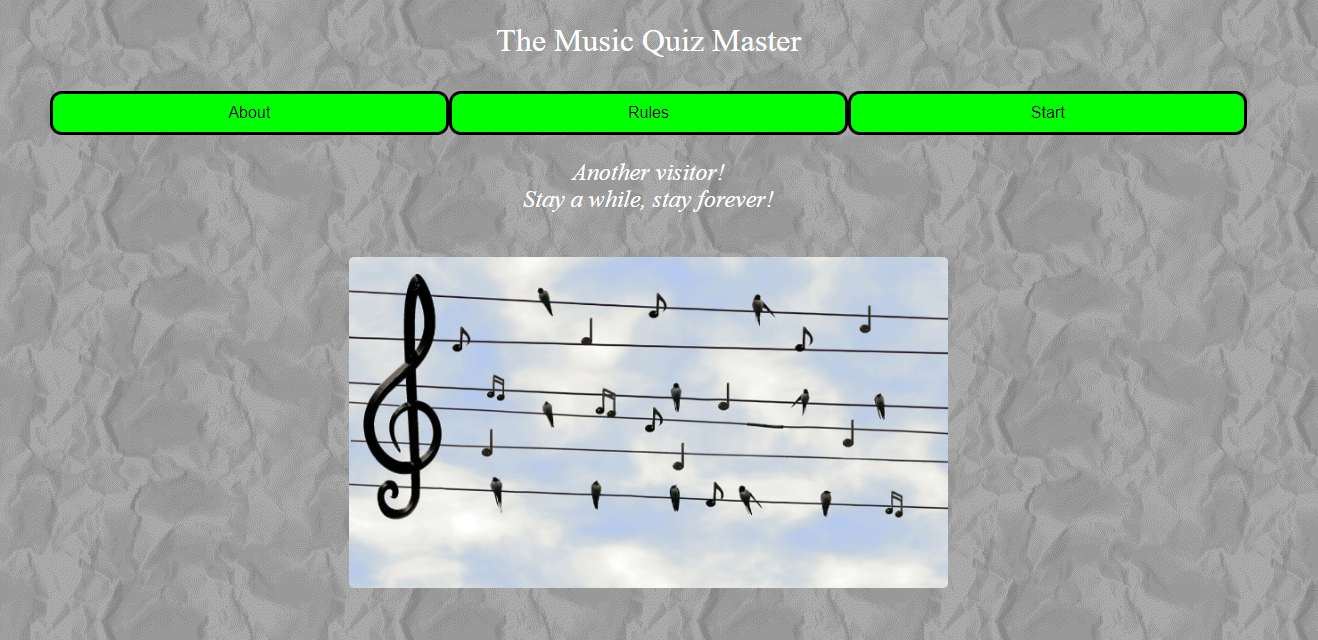
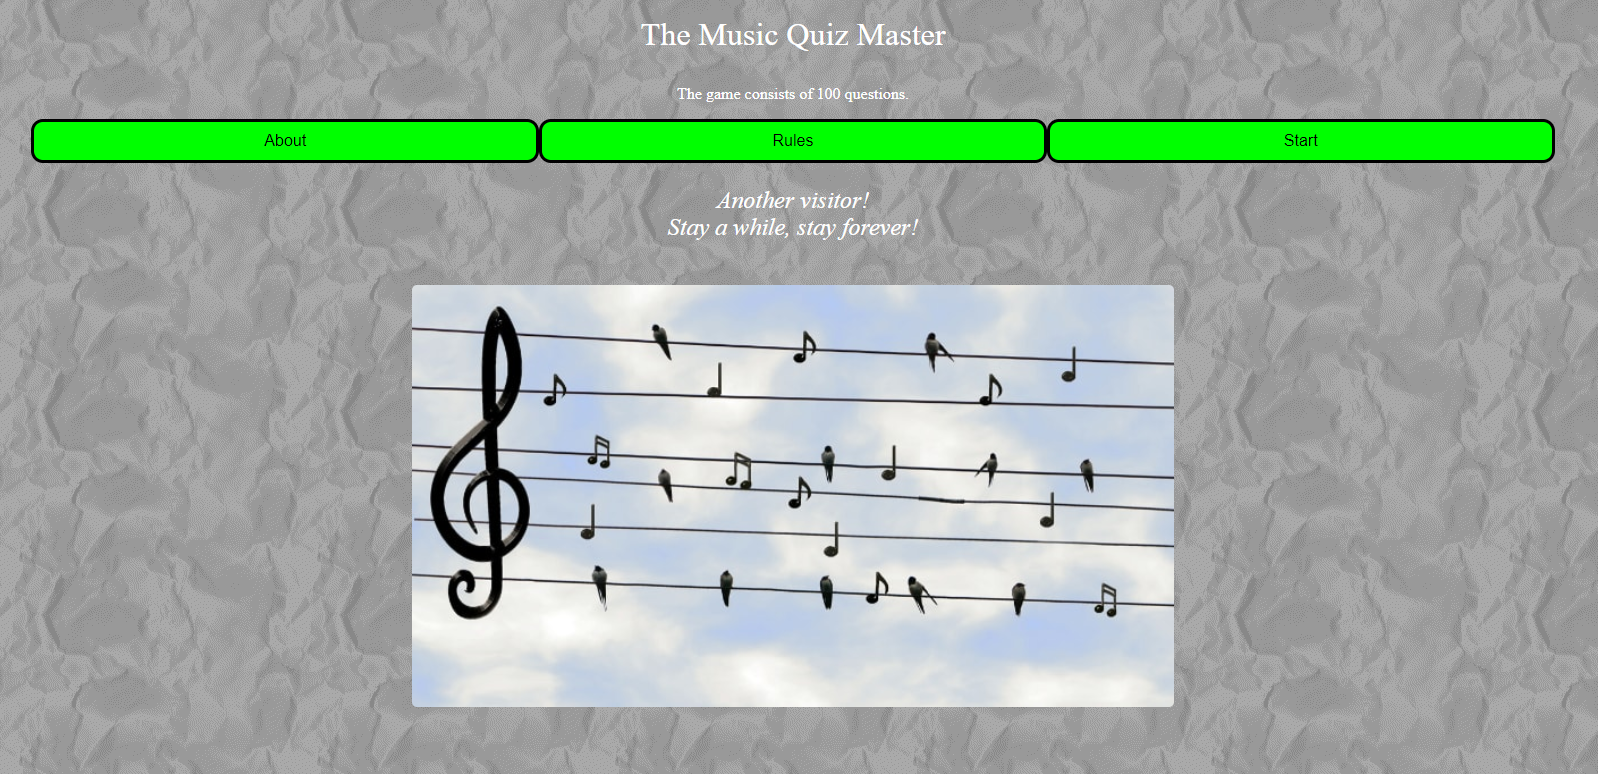
Change: Startscreen.png for readme-files updated to new version

diff --git a/assets/javascript/script.js b/assets/javascript/script.js
@@ -19,7 +19,7 @@ const myStartModal = `<span class="close">&times;</span>
 <p class="center-text">1. Every question answered correctly will give you an added score of
     50.</p>
 <p class="center-text">2. Every question answered incorrectly will deduct 70 points to discourage from just guessing.</p>
-`; //start-value of the modal. Gets re-written into the innerHTML at appropiate times
+`; //start-value of the modal. Gets re-written into the innerHTML when user clicks on rules-button
 
 createEvtListeners(); // create event listeners for user interactivity
 createQuestionsFromFiles(); // create array with quiz questions. WIll only run once

diff --git a/README.md b/README.md
@@ -9,7 +9,12 @@ The game is live
 
 # Background and use-case
 
-Apart from some image-files, the app only consists of 2 html-files, one css-file, and one javascript-file. One of the html-files is only used when the browser detects that javascript has been disabled. The index.html is the primary one and the only one that the javascript targets elements in. It might have been easier to use a game.html file for the game-proper, but since the focus is on javascript I decided against it. It was more worthwhile to use just one since it provided more of a challenge.
+The project is basically a small music quiz game that consists of 100 questions in a "database". For each game played, the player is asked 10 randomly chosen questions
+and gets scored according to how many are answered correctly.
+
+File-wise, the app only consists of 2 html-files, one css-file, and one javascript-file and 6 textfiles that defines the questions. 
+
+One of the html-files is only used when the browser detects that javascript has been disabled. The index.html is the primary one and the only one that the javascript targets elements in. It might have been easier to use a game.html file for the game-proper, but since the focus is on javascript I decided against it. It was more worthwhile to use just one since it provided more of a challenge.
 
 Basically, you will only ever see two different views.
 
